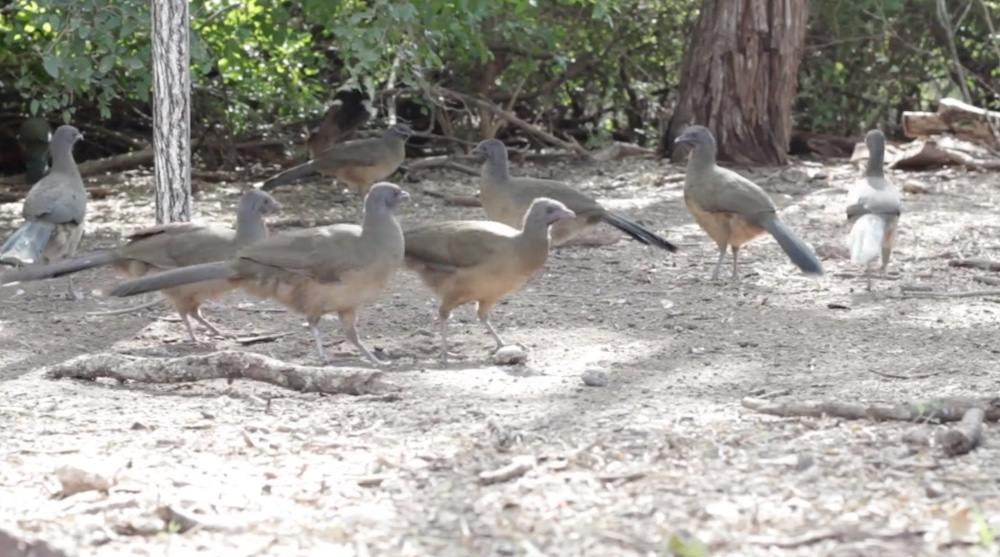
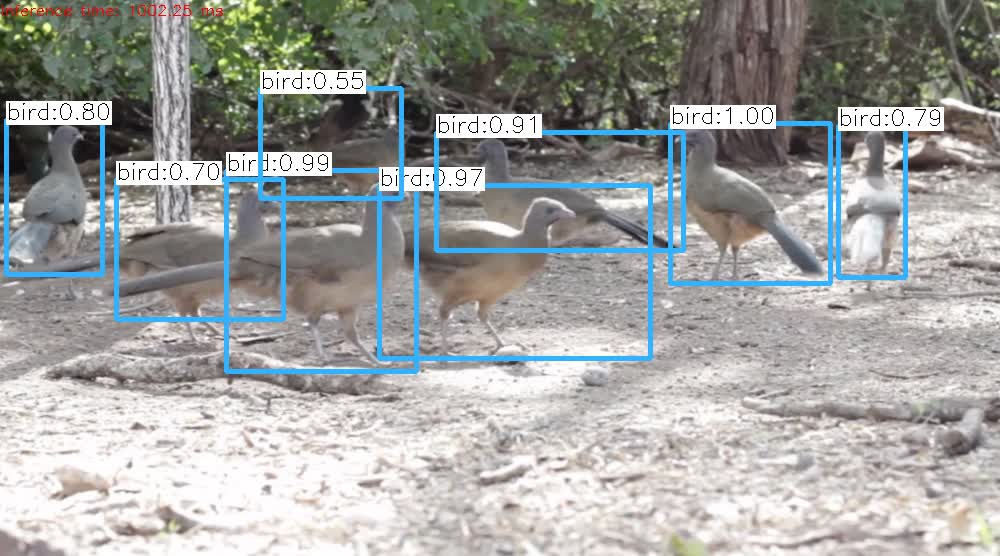
# Implemented URL argument # Outputs output with dynamic filename

diff --git a/ObjectDetection-YOLO/object_detection_yolo.py b/ObjectDetection-YOLO/object_detection_yolo.py
@@ -18,6 +18,7 @@ inpHeight = 416      #Height of network's input image
 parser = argparse.ArgumentParser(description='Object Detection using YOLO in OPENCV')
 parser.add_argument('--image', help='Path to image file.')
 parser.add_argument('--video', help='Path to video file.')
+parser.add_argument('--url', help='Path to remote url.')
 args = parser.parse_args()
         
 # Load names of classes
@@ -43,6 +44,14 @@ def getOutputsNames(net):
 
 # Draw the predicted bounding box
 def drawPred(classId, conf, left, top, right, bottom):
+    # @Ri Debugging the values
+    # print("classId: ", classId)
+    # print("conf: ", conf) 
+    # print("left: ", left)
+    # print("top: ", top) 
+    # print("right: ", right)
+    # print("bottom: ", bottom)
+
     # Draw a bounding box.
     cv.rectangle(frame, (left, top), (right, bottom), (255, 178, 50), 3)
     
@@ -61,6 +70,10 @@ def drawPred(classId, conf, left, top, right, bottom):
 
 # Remove the bounding boxes with low confidence using non-maxima suppression
 def postprocess(frame, outs):
+
+    # @Ri Debugging the outs
+    # print("outs: ", outs)
+    
     frameHeight = frame.shape[0]
     frameWidth = frame.shape[1]
 
@@ -100,9 +113,9 @@ def postprocess(frame, outs):
 # Process inputs
 winName = 'Deep learning object detection in OpenCV'
 
-'''
+
 cv.namedWindow(winName, cv.WINDOW_NORMAL)   # Inorder to view X frame preview 1/2
-'''
+
 
 outputFile = "yolo_out_py.avi"
 if (args.image):
@@ -119,6 +132,10 @@ elif (args.video):
         sys.exit(1)
     cap = cv.VideoCapture(args.video)
     outputFile = args.video[:-4]+'_yolo_out_py.avi'
+elif (args.url):
+    print("args.url: ", args.url)
+    cap = cv.VideoCapture(args.url)
+    outputFile = args.url.rsplit('/',1)[1][:-9]+'.jpg'
 else:
     # Webcam input
     cap = cv.VideoCapture(0)
@@ -158,7 +175,7 @@ while cv.waitKey(1) < 0:
     label = 'Inference time: %.2f ms' % (t * 1000.0 / cv.getTickFrequency())
     cv.putText(frame, label, (0, 15), cv.FONT_HERSHEY_SIMPLEX, 0.5, (0, 0, 255))
 
-'''
+
 # Inorder to view X frame preview 2/2
 
     # Write the frame with the detection boxes
@@ -168,4 +185,4 @@ while cv.waitKey(1) < 0:
         vid_writer.write(frame.astype(np.uint8))
 
     cv.imshow(winName, frame)
-'''
+
